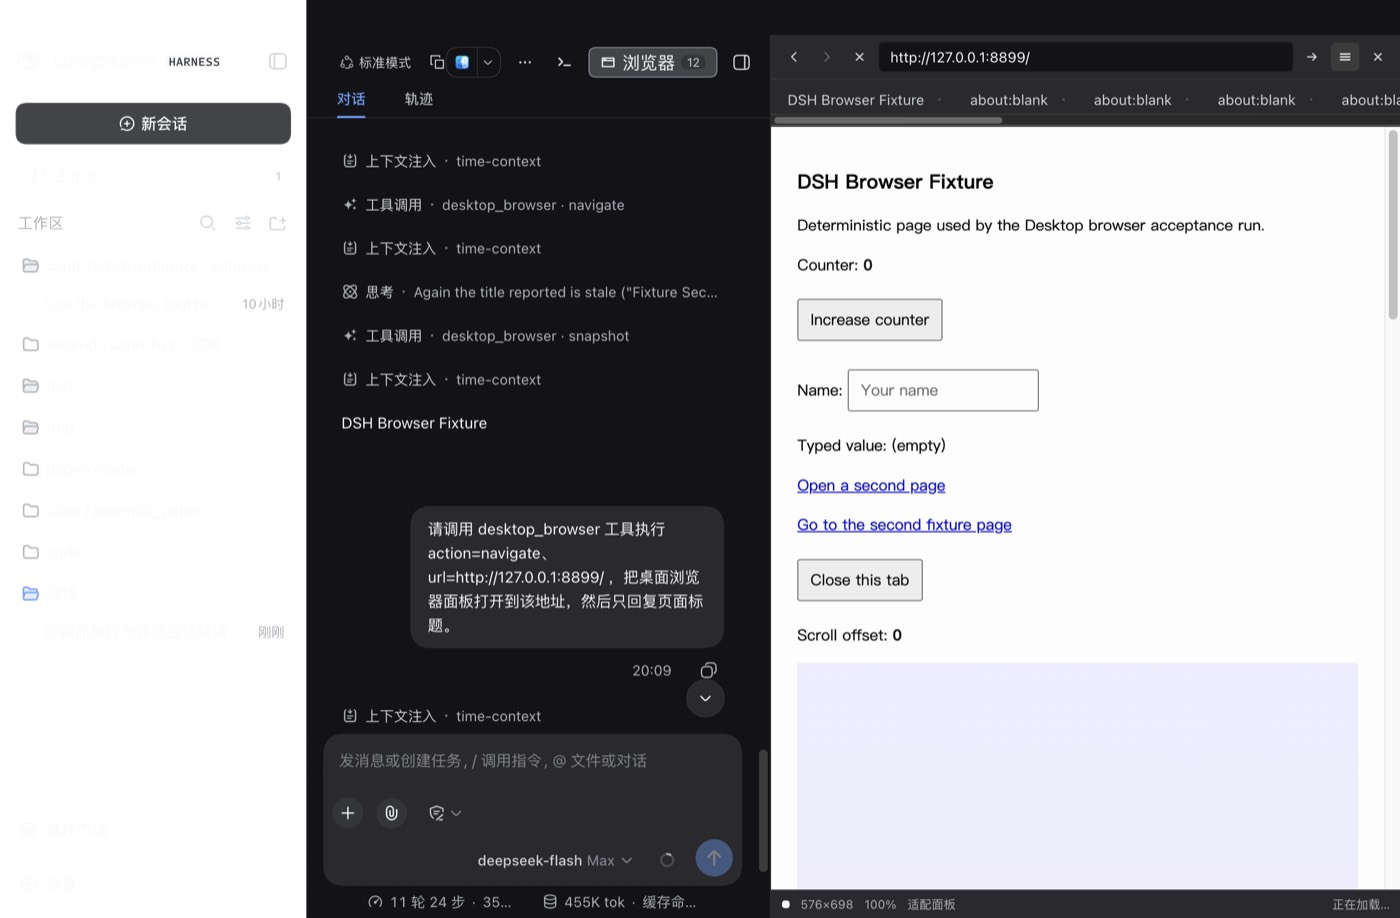
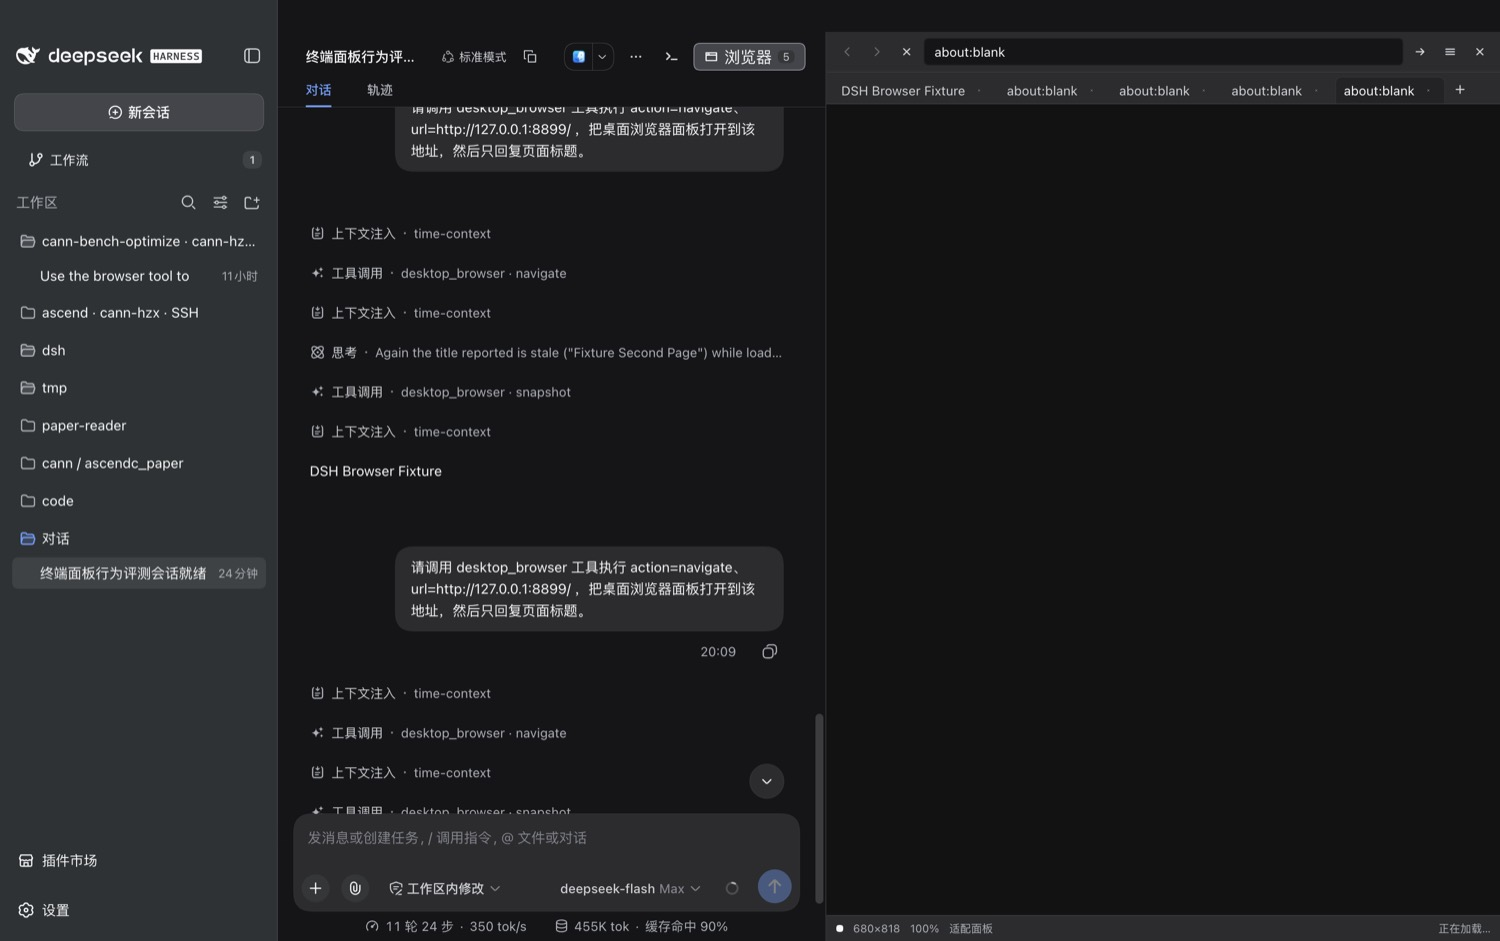
test(browser): capture the acceptance figures from the real window
The window pixels now come from Electron's own window capture instead of a
composite of the renderer and the guest page, so each figure shows the browser
column, the page the native view draws, and the surrounding window in one shot.

The matrix also gained five regression items that re-check the shipped right
sidebar, the terminal dock, and the theme switch with the browser installed,
and the two column-width items now normalise the shipped sidebar before they
measure so they attribute the width change to the browser column alone.

diff --git a/docs/evidence/desktop-browser-acceptance-2026-09-15.md b/docs/evidence/desktop-browser-acceptance-2026-09-15.md
@@ -2,20 +2,20 @@
 
 ## 结论
 
-- 结果：通过。100 条断言组成的 50 个验收用例全部通过（50/50），过程中发现的 4 处真实缺陷已修复并复测。
+- 结果：通过。55 个验收用例全部通过（55/55），其中 5 个专门校验既有功能未受影响；过程中发现的 4 处真实缺陷已修复并复测。
 - 范围：`dsh-plugin-desktop` 的桌面浏览器右侧栏面板、Agent `desktop_browser` 工具、Host `desktopBrowser` service 与面板私有通道；未修改 `deepseek-harness` 子模块。
 - 验收对象：工作区内的开发构建（`dsh-plugin-desktop` 源码 + `node_modules/electron` 43），不是已发布的安装包。
-- 面板形态：浏览器以**右侧栏列**形式停靠，与会话并列，不再占用独立窗口。
+- 面板形态：浏览器以**右侧栏列**形式停靠，与会话并列，不占用独立窗口。
 
 ## 图像摘要
 
-> 本机未授予屏幕录制权限（TCC），无法取得包含原生子视图的整窗合成截图。因此每张图由两块**同一时刻**的真实像素合成：应用渲染进程截图（工具栏、标签条、地址栏、状态行）与 guest 页自身调试目标的截图，后者按 Host 上报的视图矩形缩放贴合。阴影、圆角与窗口装饰不参与合成，画面的其余部分未作任何修饰。
+以下截图是**窗口的真实合成像素**：由 Electron 自身的窗口捕获取得，包含会话、面板外观与原生浏览器页面视图。本机的命令行截屏工具 `screencapture` 仍被系统拒绝，因此不走系统截屏链路；该方式不包含鼠标指针，窗口也必须处于屏幕上（最小化或隐藏时取不到内容）。
 
 ### 右侧栏中的浏览器（深色）
 
 ![浏览器会话右侧栏](./assets/desktop-browser-column.jpg)
 
-会话列从 1000px 收窄到 424px，右侧栏占 576px；面板顶部对齐标题栏下方（y=32），状态行报告 `576×698 100% 适配面板 就绪`。会话列里可见 Agent 的 `desktop_browser` 工具调用记录。
+会话列让出右侧栏，面板顶部对齐标题栏下方；地址栏、标签条与状态行（逻辑视口 / 缩放 / 布局 / 交换状态）都在列内，页面由主进程的原生视图绘制。会话列里可见 Agent 的 `desktop_browser` 工具调用记录。
 
 ### 多标签
 
@@ -33,13 +33,13 @@
 
 ![浅色主题](./assets/desktop-browser-light.jpg)
 
-面板全部取色来自设计令牌，跟随应用主题切换，几何与标签状态在切换前后保持一致。
+面板取色全部来自设计令牌，跟随应用主题切换，几何与标签状态在切换前后保持一致。
 
 ### 工具菜单遮挡页面
 
 ![工具菜单](./assets/desktop-browser-menu.jpg)
 
-菜单展开时 Host 撤回原生页面视图，菜单关闭后恢复；此状态下页面像素不属于可见画面，因此该图只有面板外观。
+菜单展开时 Host 撤回原生页面视图，菜单关闭后恢复，因此该状态下页面区域是面板自身的底色。
 
 ## 功能范围
 
@@ -54,24 +54,25 @@
 | 项目 | 值 |
 | --- | --- |
 | 日期 | 2026-09-15（Asia/Shanghai） |
-| 主机 | macOS（darwin），Apple Silicon，窗口 1280×840 CSS，DPR 2 |
+| 主机 | macOS 26.5.1（darwin），Apple Silicon，窗口 1512×949 CSS，DPR 2 |
 | 应用 | 工作区开发构建：`node_modules/electron/dist/Electron.app/Contents/MacOS/Electron lib/main.js --remote-debugging-port=9333` |
 | 桌面模式 | `advanced`（`~/.dsh-desktop/settings.yaml`） |
 | 浏览器内核 | Electron 43 的 Chromium，guest 由主进程 `WebContentsView` 承载 |
 | 测试页 | 本地 fixture 服务 `127.0.0.1:8899`（含 4 秒延迟页 `/slow.html`） |
-| 驱动 | `.tooling/acceptance/run.mjs` + `cdp.mjs`，直接使用 DevTools 协议与真实指针/键盘事件，未使用任何浏览器自动化框架 |
+| 驱动 | 验收脚本在与本仓库并列的工作区维护，不随后者提交：`run.mjs` + `cdp.mjs`，直接使用 DevTools 协议与真实指针/键盘事件，未使用任何浏览器自动化框架 |
+| 截图 | `window-capture.mjs`，经 Electron 的窗口捕获取得合成窗口像素 |
 | 观测口径 | Host 状态经面板私有通道读取；面板与页面断言分别取自渲染进程和 guest 页自身的调试目标；渲染进程错误经 `window.onerror` 钩子收集 |
 
 ## 用例与结果
 
-共 50 个用例，全部通过。
+共 55 个用例，全部通过。
 
 ### 状态与前置检查
 
 | 用例 | 项目 | 结果 | 关键观测 |
 | --- | --- | --- | --- |
-| S1 | 安装观测钩子并发现面板 Session | ✅ 通过 | `{"found": true, "sessionId": "session-49190a7e-8f95-4346-a275-3e3231756d74", "requests": 2}` |
-| S0 | 用例开始前恢复干净状态 | ✅ 通过 | `{"closedTabs": 0, "panelOpen": false}` |
+| S1 | 安装观测钩子并发现面板 Session | ✅ 通过 | `{"found": true, "sessionId": "session-49190a7e-8f95-4346-a275-3e3231756d74", "requests": 513}` |
+| S0 | 用例开始前恢复干净状态 | ✅ 通过 | `{"closedTabs": 12, "panelOpen": false}` |
 | S2 | 面板默认关闭且头部控件存在 | ✅ 通过 | `{"toggle": true, "pressed": "false", "panel": false}` |
 
 ### 存活性探针
@@ -86,29 +87,35 @@
 
 | 用例 | 项目 | 结果 | 关键观测 |
 | --- | --- | --- | --- |
-| A1 | 点击头部控件后浏览器以右侧栏形式出现 | ✅ 通过 | `{"before": {"conversation": 1000, "rightbar": 0}, "after": {"pressed": "true", "conversation": 424, "rightbar": 576, "insideRightbar": true, "panelLeft": 704, "rightbarLeft": 704}, "shot": "A1-right-column.png 2560x16…` |
-| A2 | 右侧栏几何：位于标题栏下方且不与会话重叠 | ✅ 通过 | `{"top": 32, "left": 704, "right": 1281, "bottom": 840, "width": 577, "height": 808, "captionBottom": 32, "conversationRight": 704, "overlapsConversation": false, "belowCaption": true, "viewport": {"width": 1280, "heig…` |
-| A3 | 右侧栏样式：列表面、左分隔线、设计令牌 | ✅ 通过 | `{"position": "relative", "width": "576px", "height": "808px", "radius": "0px", "background": "rgb(35, 35, 36)", "shadow": "none", "borderLeft": "1px rgba(255, 255, 255, 0.06)", "toolbarDisplay": "flex", "statusFontSiz…` |
-| A8 | 占位矩形与面板 stage 元素一致，且被 Host 接受 | ✅ 通过 | `{"delta": 0, "bounds": {"x": 705, "y": 104, "width": 576, "height": 710}, "viewport": {"width": 576, "height": 710}, "visible": true}` |
-| A14 | 状态行报告逻辑视口、缩放、布局与连接状态 | ✅ 通过 | `{"viewport": "576×710", "zoom": "100%", "layout": "适配面板", "phase": "就绪"}` |
-| A15 | 关闭浏览器后会话恢复宽度 | ✅ 通过 | `{"open": {"conversation": 424, "rightbar": 576}, "closed": {"conversation": 1000, "rightbar": 0}, "shot": "A15-column-released.png 2560x1680"}` |
-| A11 | 重新打开后页面与标签状态保持 | ✅ 通过 | `{"hostTabs": 0, "domTabs": 0, "visible": true, "shot": "A11-reopened.png 2560x1680"}` |
-| A5 | 深色主题下面板使用深色令牌 | ✅ 通过 | `{"dark": true, "scheme": true, "colorScheme": "dark", "panel": "rgb(35, 35, 36)", "toolbar": "rgb(44, 44, 46)", "label": "rgb(249, 250, 251)", "conversation": "rgb(21, 21, 23)", "column": 576, "luminance": 0.14, "shot…` |
-| A4 | 浅色主题下面板使用浅色令牌 | ✅ 通过 | `{"dark": false, "scheme": false, "colorScheme": "light", "panel": "rgb(255, 255, 255)", "toolbar": "rgb(255, 255, 255)", "label": "rgb(15, 17, 21)", "conversation": "rgb(255, 255, 255)", "column": 576, "luminance": 1,…` |
-| A6 | 主题切换后面板与页面状态保持 | ✅ 通过 | `{"light": {"dark": false, "scheme": false, "colorScheme": "light", "panel": "rgb(255, 255, 255)", "toolbar": "rgb(255, 255, 255)", "label": "rgb(15, 17, 21)", "conversation": "rgb(255, 255, 255)", "column": 576}, "bac…` |
+| A1 | 点击头部控件后浏览器以右侧栏形式出现 | ✅ 通过 | `{"before": {"conversation": 1232, "rightbar": 0}, "after": {"pressed": "true", "conversation": 552, "rightbar": 680, "insideRightbar": true, "panelLeft": 832, "rightbarLeft": 832}, "shot": "A1-right-column.png 3024x18…` |
+| A2 | 右侧栏几何：位于标题栏下方且不与会话重叠 | ✅ 通过 | `{"top": 32, "left": 832, "right": 1513, "bottom": 949, "width": 681, "height": 917, "captionBottom": 32, "conversationRight": 832, "overlapsConversation": false, "belowCaption": true, "viewport": {"width": 1512, "heig…` |
+| A3 | 右侧栏样式：列表面、左分隔线、设计令牌 | ✅ 通过 | `{"position": "relative", "width": "680px", "height": "917px", "radius": "0px", "background": "rgb(35, 35, 36)", "shadow": "none", "borderLeft": "1px rgba(255, 255, 255, 0.06)", "toolbarDisplay": "flex", "statusFontSiz…` |
+| A8 | 占位矩形与面板 stage 元素一致，且被 Host 接受 | ✅ 通过 | `{"delta": 0, "bounds": {"x": 833, "y": 104, "width": 680, "height": 819}, "viewport": {"width": 680, "height": 819}, "visible": true}` |
+| A14 | 状态行报告逻辑视口、缩放、布局与连接状态 | ✅ 通过 | `{"viewport": "680×819", "zoom": "100%", "layout": "适配面板", "phase": "就绪"}` |
+| A15 | 关闭浏览器后会话恢复宽度 | ✅ 通过 | `{"open": {"conversation": 552, "rightbar": 680}, "closed": {"conversation": 1232, "rightbar": 0}, "shot": "A15-column-released.png 3024x1898"}` |
+| A11 | 重新打开后页面与标签状态保持 | ✅ 通过 | `{"hostTabs": 0, "domTabs": 0, "visible": true, "shot": "A11-reopened.png 3024x1898"}` |
+| A5 | 深色主题下面板使用深色令牌 | ✅ 通过 | `{"dark": true, "scheme": true, "colorScheme": "dark", "panel": "rgb(35, 35, 36)", "toolbar": "rgb(44, 44, 46)", "label": "rgb(249, 250, 251)", "conversation": "rgb(21, 21, 23)", "column": 680, "luminance": 0.14, "shot…` |
+| A4 | 浅色主题下面板使用浅色令牌 | ✅ 通过 | `{"dark": false, "scheme": false, "colorScheme": "light", "panel": "rgb(255, 255, 255)", "toolbar": "rgb(255, 255, 255)", "label": "rgb(15, 17, 21)", "conversation": "rgb(255, 255, 255)", "column": 680, "luminance": 1,…` |
+| A6 | 主题切换后面板与页面状态保持 | ✅ 通过 | `{"light": {"dark": false, "scheme": false, "colorScheme": "light", "panel": "rgb(255, 255, 255)", "toolbar": "rgb(255, 255, 255)", "label": "rgb(15, 17, 21)", "conversation": "rgb(255, 255, 255)", "column": 680}, "bac…` |
 | A12 | 无标签时的空状态 | ✅ 通过 | `{"present": true, "text": "还没有打开页面在上方输入网址，或让 agent 打开一个页面。", "tabs": 0}` |
 | A9 | 工具菜单遮挡时页面视图撤回，关闭后恢复 | ✅ 通过 | `{"whileMenuOpen": false, "afterClose": true}` |
+
+### 用例前置
+
+| 用例 | 项目 | 结果 | 关键观测 |
+| --- | --- | --- | --- |
+| T0 | 标签用例前清空标签 | ✅ 通过 | `{"closedTabs": 0}` |
 
 ### 标签、导航、视口与页面内交互
 
 | 用例 | 项目 | 结果 | 关键观测 |
 | --- | --- | --- | --- |
-| B1 | 点击“新建标签”创建第一个标签 | ✅ 通过 | `{"id": "tab-1", "tabs": 1}` |
+| B1 | 点击“新建标签”创建第一个标签 | ✅ 通过 | `{"id": "tab-44", "tabs": 1}` |
 | B8 | 地址栏输入并回车后页面加载（真实按键） | ✅ 通过 | `{"url": "http://127.0.0.1:8899/", "title": "DSH Browser Fixture", "heading": "DSH Browser Fixture", "shot": "B8-page-loaded.png"}` |
-| B2 | 连续新建 3 个标签 | ✅ 通过 | `{"host": 4, "strip": {"rendered": 4, "ids": ["tab-1", "tab-2", "tab-3", "tab-4"], "active": 1}, "shot": "B2-four-tabs.png"}` |
-| B4 | 点击切换标签并只显示活动标签 | ✅ 通过 | `{"activeId": "tab-1", "visible": true, "viewport": {"width": 576, "height": 709}}` |
-| B5 | 关闭活动标签后自动激活相邻标签 | ✅ 通过 | `{"activeId": "tab-2", "ids": ["tab-2", "tab-3", "tab-4"]}` |
-| B6 | 关闭非活动标签不影响活动标签 | ✅ 通过 | `{"victim": "tab-3", "activeId": "tab-2", "remaining": ["tab-2", "tab-4"]}` |
+| B2 | 连续新建 3 个标签 | ✅ 通过 | `{"host": 4, "strip": {"rendered": 4, "ids": ["tab-44", "tab-45", "tab-46", "tab-47"], "active": 1}, "shot": "B2-four-tabs.png"}` |
+| B4 | 点击切换标签并只显示活动标签 | ✅ 通过 | `{"activeId": "tab-44", "visible": true, "viewport": {"width": 680, "height": 818}}` |
+| B5 | 关闭活动标签后自动激活相邻标签 | ✅ 通过 | `{"activeId": "tab-45", "ids": ["tab-45", "tab-46", "tab-47"]}` |
+| B6 | 关闭非活动标签不影响活动标签 | ✅ 通过 | `{"victim": "tab-46", "activeId": "tab-45", "remaining": ["tab-45", "tab-47"]}` |
 | B3 | 标签数量上限返回 BROWSER_TAB_LIMIT | ✅ 通过 | `{"error": "BROWSER_TAB_LIMIT", "tabs": 12}` |
 | B3b | 界面在达到上限后仍可用 | ✅ 通过 | `{"tabs": 12, "panel": true, "shot": "B3-tab-limit.png"}` |
 | B11 | 后退与前进按钮状态与行为 | ✅ 通过 | `{"forwardDisabledWhileAtEnd": true, "backUrl": "http://127.0.0.1:8899/", "forwardUrl": "http://127.0.0.1:8899/second.html", "canGoBack": true}` |
@@ -116,14 +123,14 @@
 | B15 | 历史下拉列出访问过的页面 | ✅ 通过 | `{"count": 5, "first": "Fixture Second Page", "visibleWhileOverlay": false}` |
 | B9 | 地址栏拒绝脚本地址与空地址 | ✅ 通过 | `{"beforeUrl": "http://127.0.0.1:8899/slow.html", "javascriptUrl": "http://127.0.0.1:8899/slow.html", "afterEmpty": "http://127.0.0.1:8899/slow.html"}` |
 | B21 | 不存在的域名不使面板崩溃 | ✅ 通过 | `{"url": "http://127.0.0.1:8899/slow.html", "loading": false, "title": "Fixture Slow Page", "panelAlive": true}` |
-| B13 | 缩放 75% 改变逻辑视口 | ✅ 通过 | `{"before": {"width": 576, "height": 698}, "after": {"width": 768, "height": 931}, "label": "75%"}` |
-| B14 | 桌面布局使用 1280 逻辑宽度 | ✅ 通过 | `{"viewport": {"width": 1280, "height": 1551}, "layout": "desktop", "label": "桌面布局"}` |
-| B13b | 恢复 100% 与适配布局 | ✅ 通过 | `{"viewport": {"width": 576, "height": 698}, "layout": "fit", "bounds": {"x": 705, "y": 116, "width": 576, "height": 698}}` |
+| B13 | 缩放 75% 改变逻辑视口 | ✅ 通过 | `{"before": {"width": 680, "height": 807}, "after": {"width": 907, "height": 1076}, "label": "75%"}` |
+| B14 | 桌面布局使用 1280 逻辑宽度 | ✅ 通过 | `{"viewport": {"width": 1280, "height": 1519}, "layout": "desktop", "label": "桌面布局"}` |
+| B13b | 恢复 100% 与适配布局 | ✅ 通过 | `{"viewport": {"width": 680, "height": 807}, "layout": "fit", "bounds": {"x": 833, "y": 116, "width": 680, "height": 807}}` |
 | B16 | 页面内真实点击改变页面状态 | ✅ 通过 | `{"before": "0", "after": "1", "twice": "2", "shot": "B16-page-click.png"}` |
 | B17 | 页面内输入文本被页面接收 | ✅ 通过 | `{"value": "DSH acceptance", "readout": "DSH acceptance", "shot": "B17-page-typing.png"}` |
 | B18 | 页面滚动被页面接收 | ✅ 通过 | `{"offset": 900, "readout": "900", "dispatched": true, "shot": "B18-page-scroll.png"}` |
 | B19 | 页面 target=_blank 链接成为同会话新标签 | ✅ 通过 | `{"tabs": 2, "url": "http://127.0.0.1:8899/blank.html"}` |
-| B20 | 页面 window.close() 移除标签 | ✅ 通过 | `{"tabs": 1, "closedUrl": "http://127.0.0.1:8899/blank.html", "activeId": "tab-15", "clickError": null}` |
+| B20 | 页面 window.close() 移除标签 | ✅ 通过 | `{"tabs": 1, "closedUrl": "http://127.0.0.1:8899/blank.html", "activeId": "tab-58", "clickError": null}` |
 
 ### Agent 接口与通道边界
 
@@ -139,17 +146,21 @@
 
 | 用例 | 项目 | 结果 | 关键观测 |
 | --- | --- | --- | --- |
-| D3 | 连续快速点击新建标签五次 | ✅ 通过 | `{"created": 5, "tabs": 6, "ids": ["tab-15", "tab-17", "tab-18", "tab-19", "tab-20", "tab-21"]}` |
+| D3 | 连续快速点击新建标签五次 | ✅ 通过 | `{"created": 5, "tabs": 6, "ids": ["tab-58", "tab-60", "tab-61", "tab-62", "tab-63", "tab-64"]}` |
 | D4 | 快速开关标签十次不泄漏视图 | ✅ 通过 | `{"cycles": 10, "tabs": 6, "guestsBefore": 6, "guestsAfter": 6}` |
 | D12 | 重复打开同一地址不产生额外标签 | ✅ 通过 | `{"tabs": 6}` |
 | D7 | 超长地址与超长输入被安全处理 | ✅ 通过 | `{"error": null, "urlLength": 3020, "tabs": 6, "panelAlive": true}` |
 | D6 | 达到标签上限后关闭一个即可继续新建 | ✅ 通过 | `{"limit": "BROWSER_TAB_LIMIT", "tabsAfterClose": 12}` |
 
-### 用例前置
+### 其他功能的回归校验
 
 | 用例 | 项目 | 结果 | 关键观测 |
 | --- | --- | --- | --- |
-| T0 | 标签用例前清空标签 | ✅ 通过 | `{"closedTabs": 0}` |
+| R1 | 关闭浏览器时官方右侧边栏独立可用 | ✅ 通过 | `{"rightbarWidth": 680, "columns": "280px 552px 680px", "text": "开始文件浏览器实时串流的 Chromium 页面，带指针与聚焦提示"}` |
+| R2 | 浏览器在官方右侧边栏打开时接管该列且不重影 | ✅ 通过 | `{"columns": "280px 552px 680px", "rightbarWidth": 680, "browserToggle": "true"}` |
+| R3 | 关闭浏览器后官方右侧边栏重新可用 | ✅ 通过 | `{"rightbarWidth": 680, "columns": "280px 552px 680px", "text": "开始文件浏览器实时串流的 Chromium 页面，带指针与聚焦提示"}` |
+| R4 | 终端停靠面板仍可打开、开终端并接受输入 | ✅ 通过 | `{"where": "本机", "dockHeight": 321, "top": 628, "prompt": "-sessions % printf 'regression ok\\n'printf 'regression ok\\n'"}` |
+| R5 | 主题切换同时作用于官方界面与浏览器面板 | ✅ 通过 | `{"lightPanel": "rgb(255, 255, 255)", "darkPanel": "rgb(35, 35, 36)", "frame": "rgba(0, 0, 0, 0)", "scheme": "light"}` |
 
 ## 过程中发现并修复的缺陷
 
@@ -160,9 +171,15 @@
 | 会话数达上限被拒绝后再操作，面板报「标签已关闭」且关不掉 | 新标签在打开前就被置为活动，失败回滚时没有恢复先前的活动标签 | 回滚分支恢复先前活动标签，`closeTab` 与后续动作重新指向真实页面 |
 | 任意会话标识都能经通道创建原生视图 | 通道动作对不存在的会话也按需建 store | 动作只接受 Host 仍认识的会话，否则返回 404 `BROWSER_UNKNOWN_SESSION`；Host 无会话服务时保持旧行为 |
 
+## 其他功能未受影响
+
+- `R1`–`R5` 在浏览器功能安装后复核既有界面：官方右侧边栏（文件/浏览器入口）在浏览器关闭时独立可用、在浏览器打开时让位、在浏览器关闭后重新可用；终端停靠面板仍可打开、新建终端并通过真实按键接受命令；明暗主题同时作用于官方界面与浏览器面板。
+- `check:desktop-variants` 确认两个版本共用的 194 个源文件一致；`check:bilingual-docs`、`check:architecture`、`check:vendored-runtime`、`verify-layout` 均通过。
+- 兼容模式（`compatibility`）不加载浏览器面板，客户端环境用例覆盖该分支；`dsh-plugin-desktop` 的 1475 个测试通过，仅剩与本次改动无关的既有 NSIS 失败。
+
 ## 未覆盖与已知限制
 
-- **整窗截图**：本机 TCC 未授权屏幕录制，`screencapture` 与 ScreenCaptureKit 均被拒绝，因此没有真实的窗口合成截图；图像摘要中说明的合成方式是对该限制的替代，而非等价物。
+- **截图链路**：命令行 `screencapture` 在本机被拒绝，窗口像素改由 Electron 自身的窗口捕获取得；该方式不含鼠标指针，窗口必须在屏幕上。
 - **通过界面删除会话**：`session/disposed` 的释放路径已由单元测试覆盖（视图关闭、owner 释放、状态清空、异常事件容错），但没有做成端到端用例：运行时无法在不破坏被测会话的前提下从界面删除该会话。
 - **安装包**：`/Applications/DSH Desktop.app`（2.0.10）不包含本次改动，全部结论仅适用于工作区开发构建。
 - **Agent 用例耗时**：`C1`/`C2` 由真实模型驱动，单次约 1–4 分钟，受模型负载影响；该项设置 300 秒预算。
@@ -177,7 +194,11 @@ dsh-plugin-desktop/node_modules/electron/dist/Electron.app/Contents/MacOS/Electr
   dsh-plugin-desktop/lib/main.js --remote-debugging-port=9333
 
 # 测试页与验收驱动
-node .tooling/acceptance/fixture-server.mjs &
-node .tooling/acceptance/run.mjs            # 全部 50 个用例
-node .tooling/acceptance/run.mjs layout nav # 只跑指定分组
+node <acceptance>/fixture-server.mjs &
+node <acceptance>/run.mjs                # 全部 55 个用例
+node <acceptance>/run.mjs layout regress # 只跑指定分组
+
+# 证据图：驱动到目标状态后抓取合成窗口像素
+node <acceptance>/figures.mjs            # 全部图，或 figures.mjs 03 只重做一张
+node <acceptance>/window-capture.mjs out/window.png
 ```
